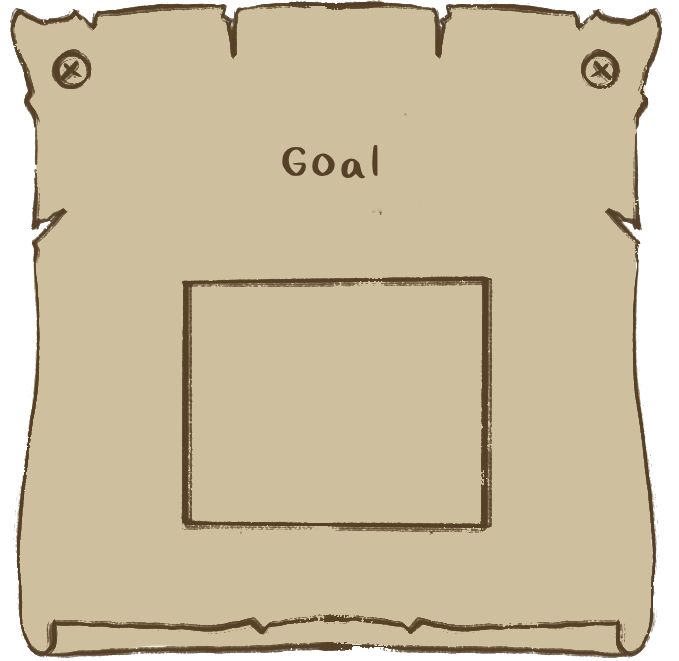
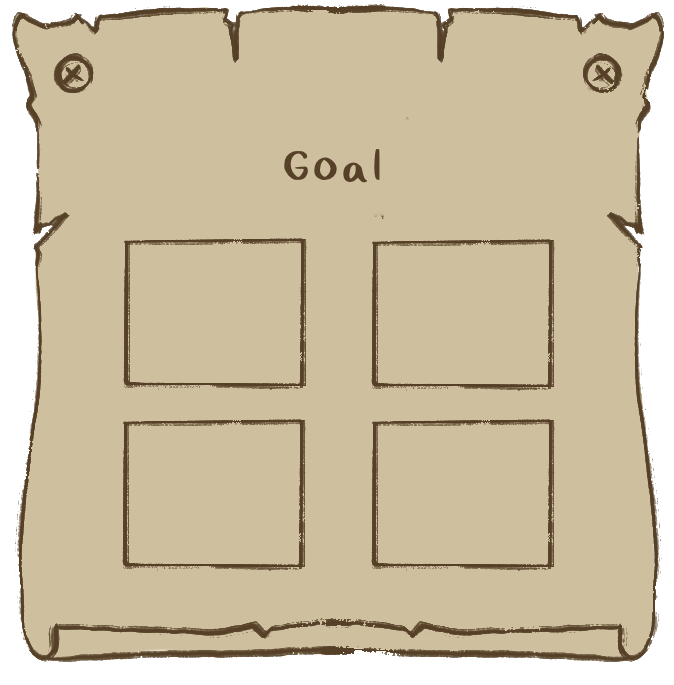
New goal art and remove unused method

Changed region(s): [[0.0, 0.0, 0.997, 0.9985], [0.1558, 0.3328, 0.8412, 0.8472], [0.405, 0.2118, 0.5608, 0.2723]]

diff --git a/Cauldron.cpp b/Cauldron.cpp
@@ -18,7 +18,6 @@ void Cauldron::addColor(QColor newColor) {
 
     emit updateDisplay(getColor());
     emit colorsChanged(colors, totalColors);
-    qDebug() << getColor();
 }
 
 QColor Cauldron::getColor() {
@@ -32,14 +31,6 @@ QColor Cauldron::getColor() {
         blues += weight * (1.0 - (static_cast<double>(color.blue()) / 255.0));
     }
     return QColor(255 * (1 - reds), 255 * (1 - greens), 255 * (1 - blues));
-}
-
-void Cauldron::getPieColorSeries(QPieSeries& pieSeries) {
-    foreach (const QColor key, colors.keys()) {
-        QPieSlice* pieSlice = new QPieSlice(key.name(), colors[key.name()] / totalColors);
-        pieSlice->setColor(key);
-        pieSeries.append(pieSlice);
-    }
 }
 
 void Cauldron::dump() {

diff --git a/Cauldron.h b/Cauldron.h
@@ -11,7 +11,6 @@ public:
     explicit Cauldron(QWidget* parent = nullptr);
 
     QColor getColor();
-    void getPieColorSeries(QPieSeries&);
     void dump();
 
 private:
